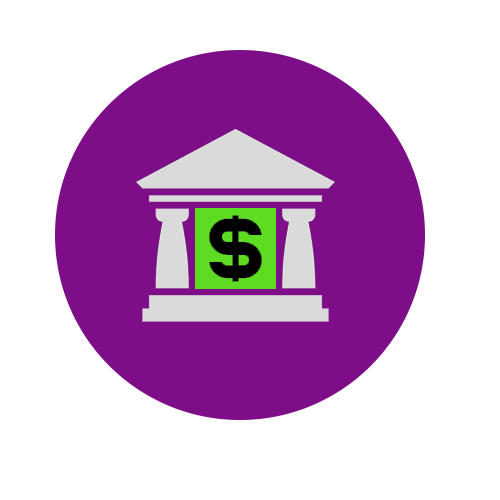
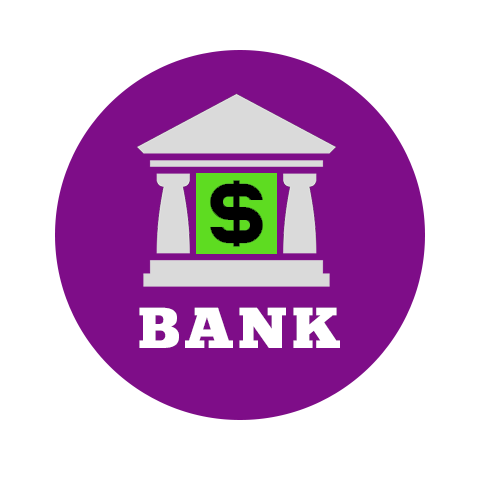
Bugfixes
Several bugfixes and some icon editions

Changed region(s): [[0.27, 0.18, 0.69, 0.72]]

diff --git a/PWA/src/js/panel/ItemsPanel.js b/PWA/src/js/panel/ItemsPanel.js
@@ -75,8 +75,10 @@ class ItemsPanel {
                 li.find("button.edit").click(cbEdit);
                 li.find("button.delete-item").click(cbDelete);
                 let moveButton = li.find("button.move-item")[0];
-                moveButton.addEventListener('dragstart', cbDragSt, false);
-                moveButton.addEventListener('dragend', cbDragEnd, false);
+                if(moveButton) {
+                    moveButton.addEventListener('dragstart', cbDragSt, false);
+                    moveButton.addEventListener('dragend', cbDragEnd, false);
+                }
                 li.find(".item-icon").click(cbClickedIcon);
                 this._itemsPanel.append(li);
             }

diff --git a/PWA/src/css/list-page.css b/PWA/src/css/list-page.css
@@ -70,16 +70,14 @@ a.item-call {
     text-transform: uppercase;
     background-color: #7C0D82;
     font-weight: bold;
-    margin: 0.5em 1% 0 1%; /*margin-top: 0.5em when one*/
-    float: left; /* remove when one */
+    margin: 0.5em;
 }
 
 .item-map {
     border-radius: 1em;
     padding-top: 0.2em;
     padding-bottom: 0.2em;
-    width: 48%;
-    max-width: 17em;
+    width: 100%;
     border: 0.1em solid #6A3D57;
 }
 

diff --git a/PWA/src/js/api/ApiService.js b/PWA/src/js/api/ApiService.js
@@ -102,7 +102,7 @@ class ApiService {
         return this._api.del(
             ApiService.buildSingleItemUrl(item.itemId),
             {},
-            (...x)=> callback, // It does not return anything so nothing needs to be done
+            (...x)=> callback(), // It does not return anything so nothing needs to be done
             (...x)=> ApiService._errorHandling(errorCallback, ...x));
     }
 

diff --git a/PWA/gulpfile.babel.js b/PWA/gulpfile.babel.js
@@ -132,7 +132,7 @@ function writeServiceWorkerFile(handleFetch, callback) {
       DIST_DIR + '/js/javascript.min.js'
     ],
     navigateFallback: DEPLOYMENT_ROOT + '/index.html',
-    navigateFallbackWhitelist: [/^\/a(\/.*)?$/],
+    navigateFallbackWhitelist: [/^\/?$/],
     stripPrefix: DIST_DIR + '/',
     replacePrefix: DEPLOYMENT_ROOT + '/',
     verbose: true

diff --git a/PWA/src/js/pages/MapPage.js b/PWA/src/js/pages/MapPage.js
@@ -114,9 +114,10 @@ class MapPage extends Page {
      * Called by ItemMap when the map is clicked
      */
     mapClicked() {
-        if(this._directionsPanel) {
+        // Nothing done, now maps opens external
+        /*if(this._directionsPanel) {
             this._directionsPanel.toggle();
-        }
+        }*/
     }
 
     /**
